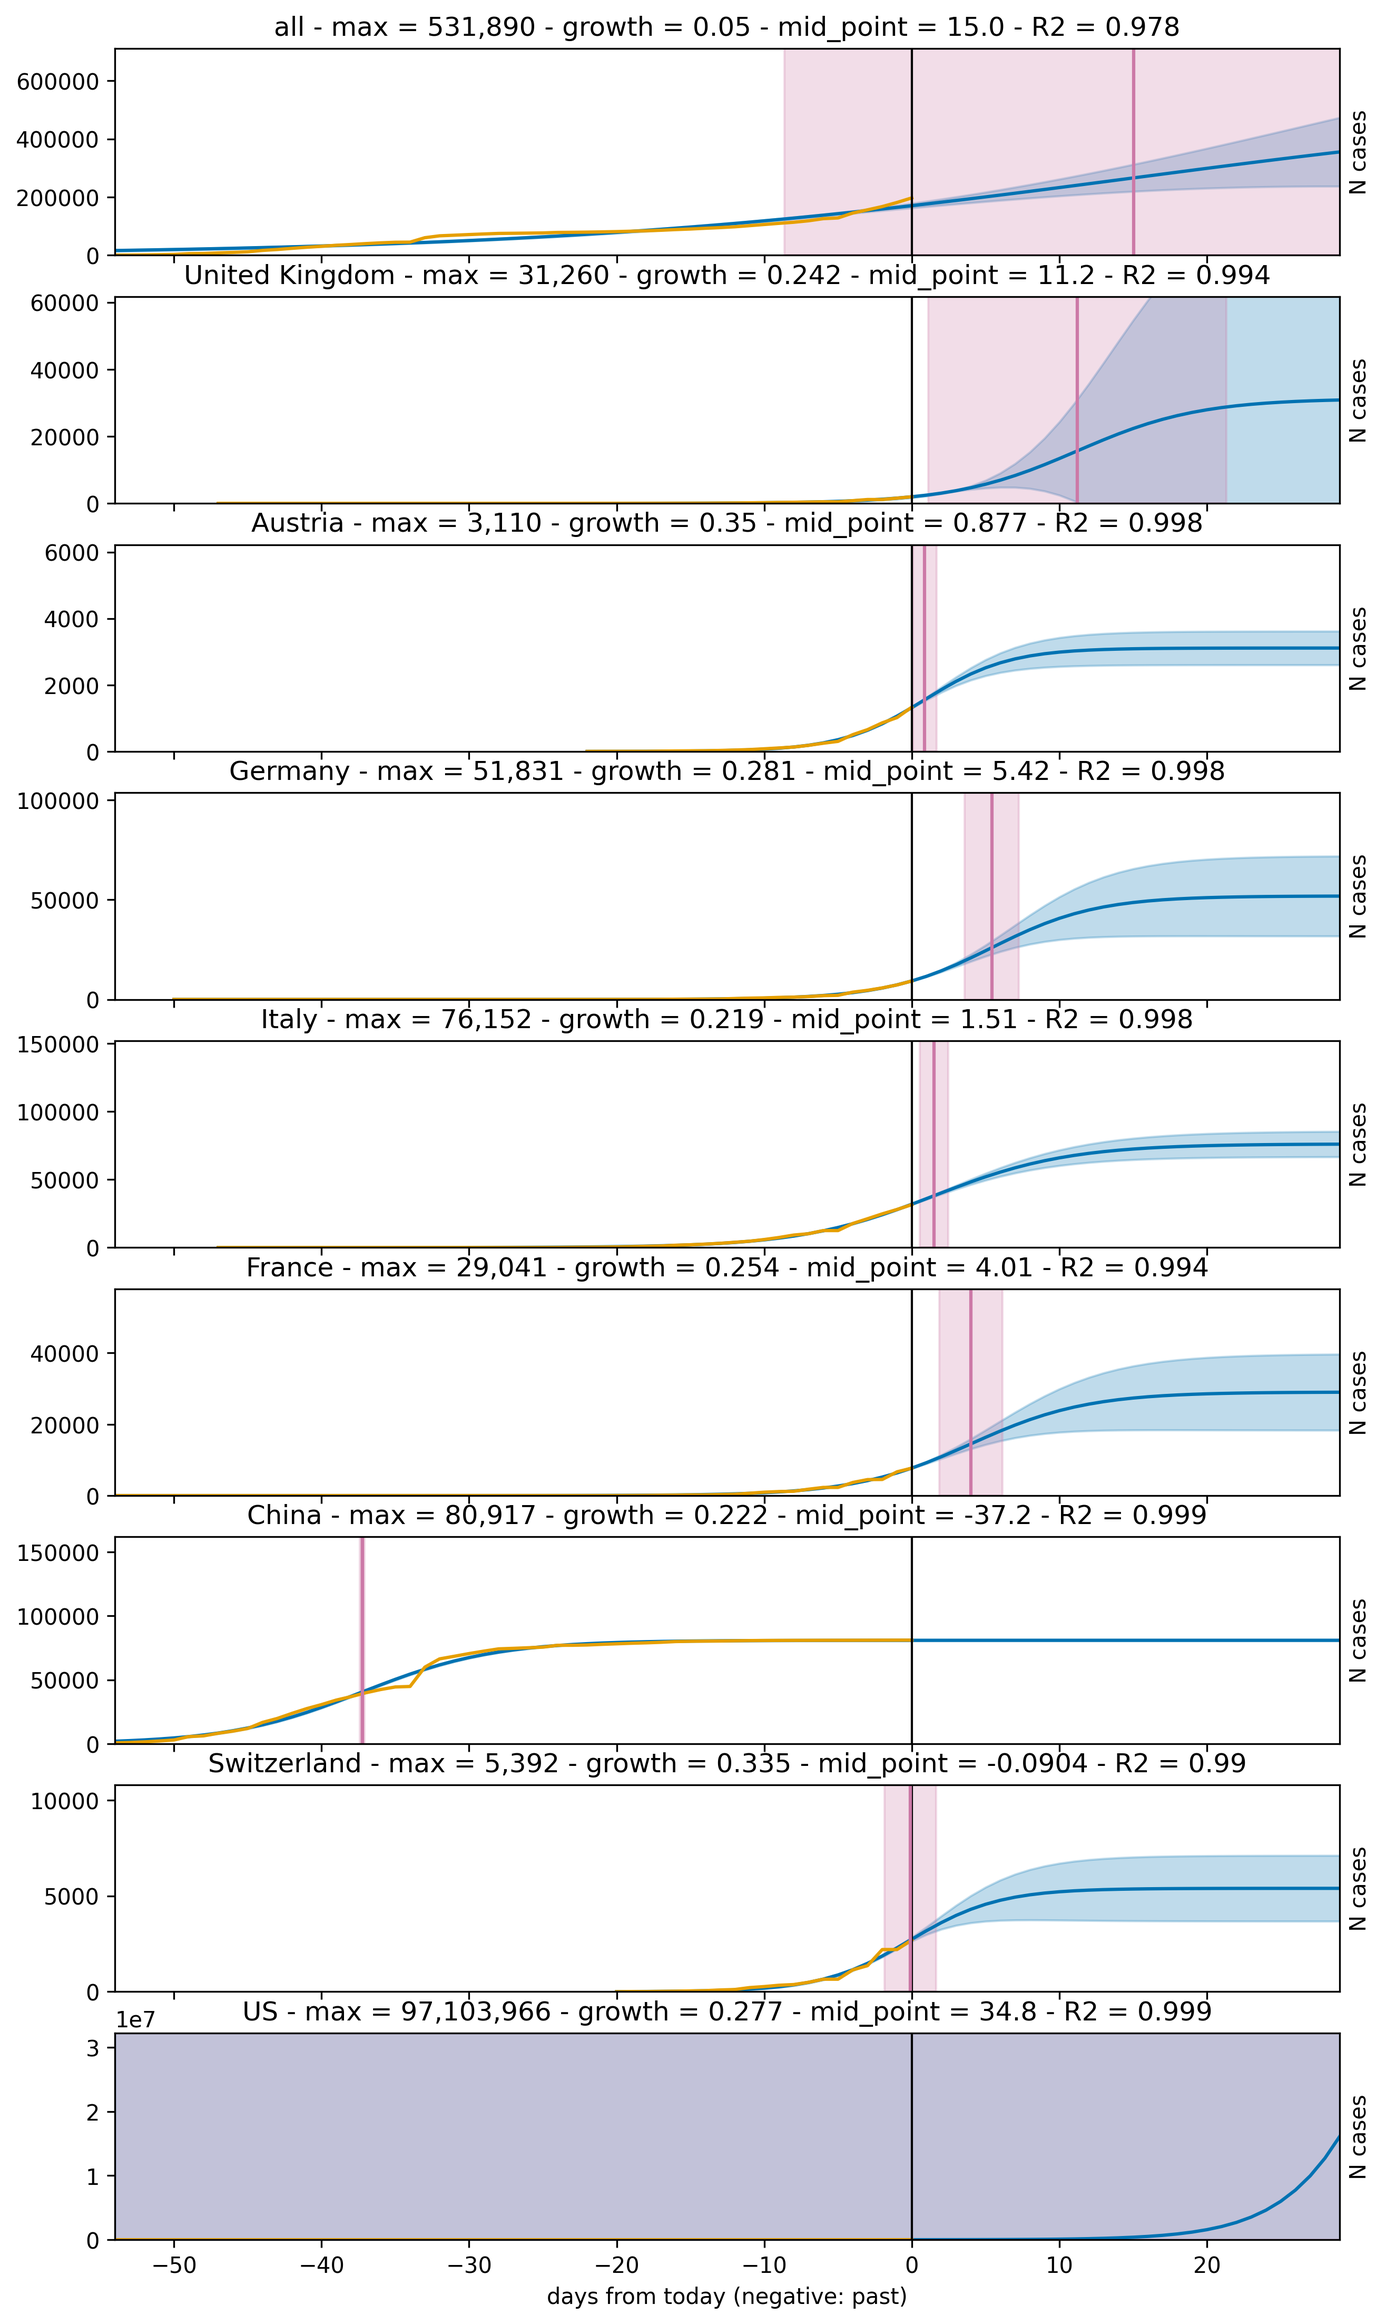
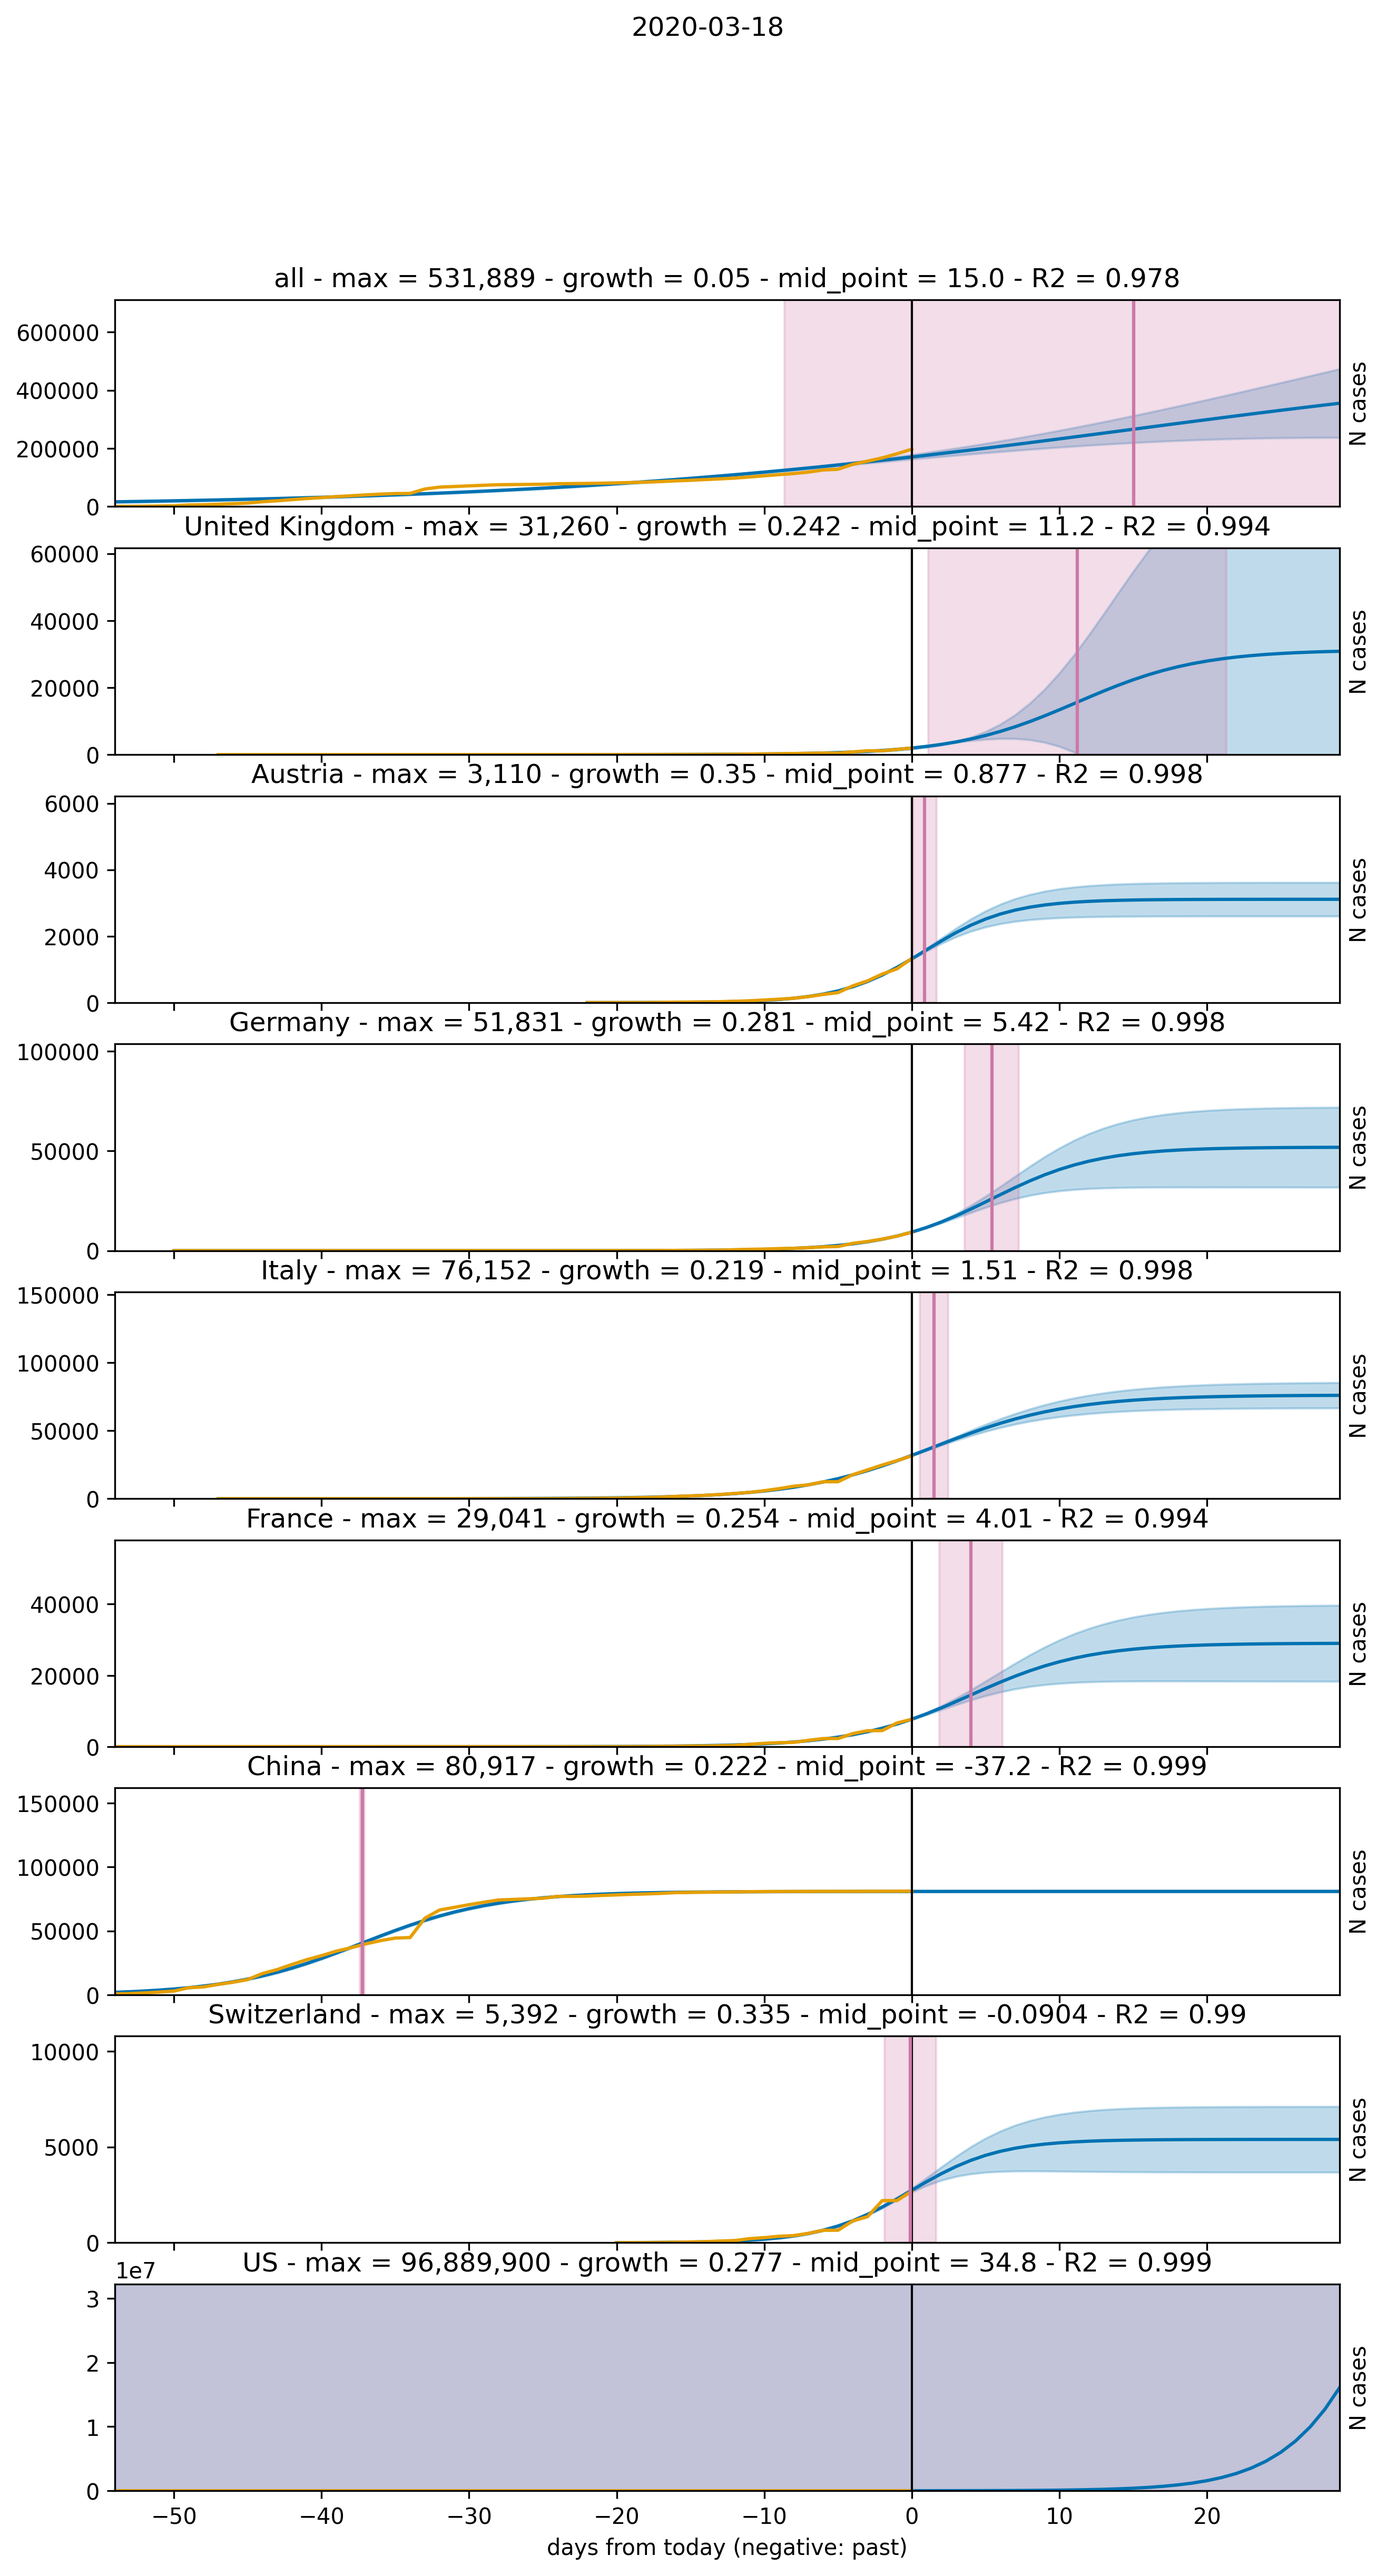
:sparkles: add date to detailed graph

diff --git a/main.py b/main.py
@@ -144,7 +144,8 @@ def generate_logistic_chart(df, countries):
         ax[i].set_xlim([np.min(x2),np.max(x2)])
         ax[i].set_ylabel('N cases')
         ax[i].yaxis.set_label_position("right")
-    ax[len(ax)-1].set_xlabel('days from today (negative: past)')
+    ax[len(ax) - 1].set_xlabel('days from today (negative: past)')
+    fig.suptitle(date.today())
     fig.savefig('plots/logistic-plot.png', bbox_inches='tight')
 
 if __name__ == '__main__':
